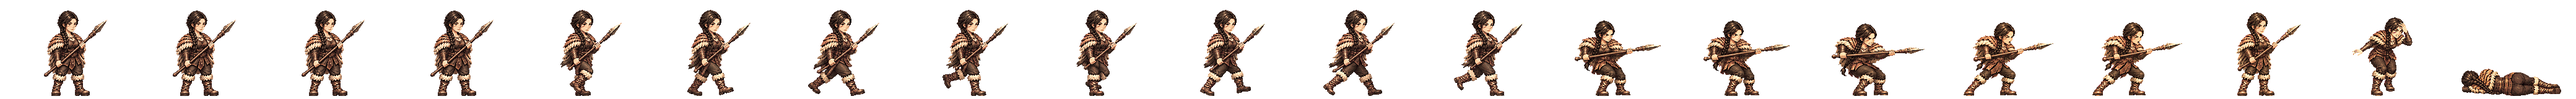
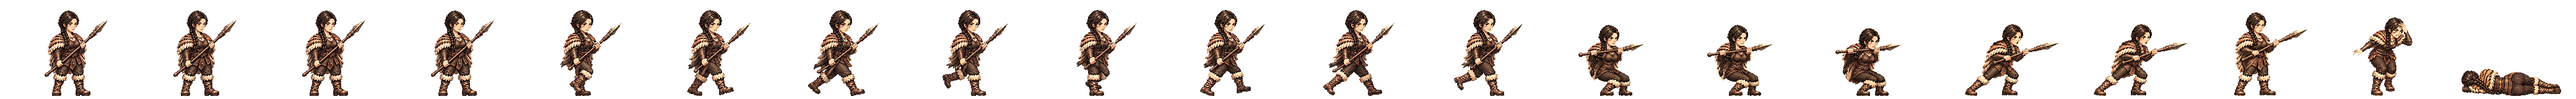
동예 범 사냥꾼 창 찌르기를 새 인형으로 다시 · 걷기는 받은 그림 그대로
T5 · T6 을 받아 HEROES 에 src='thrust2', actw=264. 낮게 뛰어들어 두 팔을 곧게 뻗는 칸 · 앞발 여덟 칸 같은 자리. 걷기는 머리 덮어씌우기 없이 다시 구움. 띠 검사 합격(경고: 가장 멀리 찌른 칸 앞 여백 2px).

Claude-Session: https://claude.ai/code/session_01TRiuN7s6aDfSnaHxrkctmU

diff --git a/tools/sprite-kit/anim-harness.py b/tools/sprite-kit/anim-harness.py
@@ -48,7 +48,7 @@ HEROES = {
     'huntress': dict(strip='gen-base-w-06-buyeo-huntress', atk='thrust', src='thrust2', actw=264, atk8=True, act=True, legacy=(('a', 2), ('a', 3), ('b', 3), ('b', 4))),   # 부여 사냥꾼(창)
     'dallae': dict(strip='gen-base-w-64-miri-dallae', atk='thrust', src='thrust2', actw=264, atk8=True, act=True, legacy=(('a', 2), ('a', 3), ('b', 3), ('b', 4))),   # 미리 군주 달래(창)
     'ara': dict(strip='gen-ara', atk='slash', atk8=True, act=True, legacy=(('a', 1), ('a', 3), ('b', 2), ('b', 4))),   # 가야 검사 아라(한 손 칼) · 좁은 칸: 머리 위로 곧게 세운 a2 는 위가, 끝까지 벤 b1 은 앞이 넘친다
-    'dtiger': dict(strip='gen-base-w-22-dongye-tiger-huntress', atk='thrust', atk8=True, act=True, legacy=(('a', 2), ('a', 3), ('b', 3), ('b', 4))),   # 동예 범 사냥꾼(창)
+    'dtiger': dict(strip='gen-base-w-22-dongye-tiger-huntress', atk='thrust', src='thrust2', actw=264, atk8=True, act=True, legacy=(('a', 2), ('a', 3), ('b', 3), ('b', 4))),   # 동예 범 사냥꾼(창)
     'noeul': dict(strip='gen-noeul', atk='bow', atk8=False),   # 사로 노을(활)
     'sagong': dict(strip='gen-sagong', atk='thrust', atk8=True, act=True, legacy=(('a', 2), ('a', 3), ('b', 3), ('b', 4))),   # 사물 사공(두 손 노 · 찌르기)
     'songbi': dict(strip='gen-songbi', atk='bow', atk8=False),   # 비류나 송비(활)
